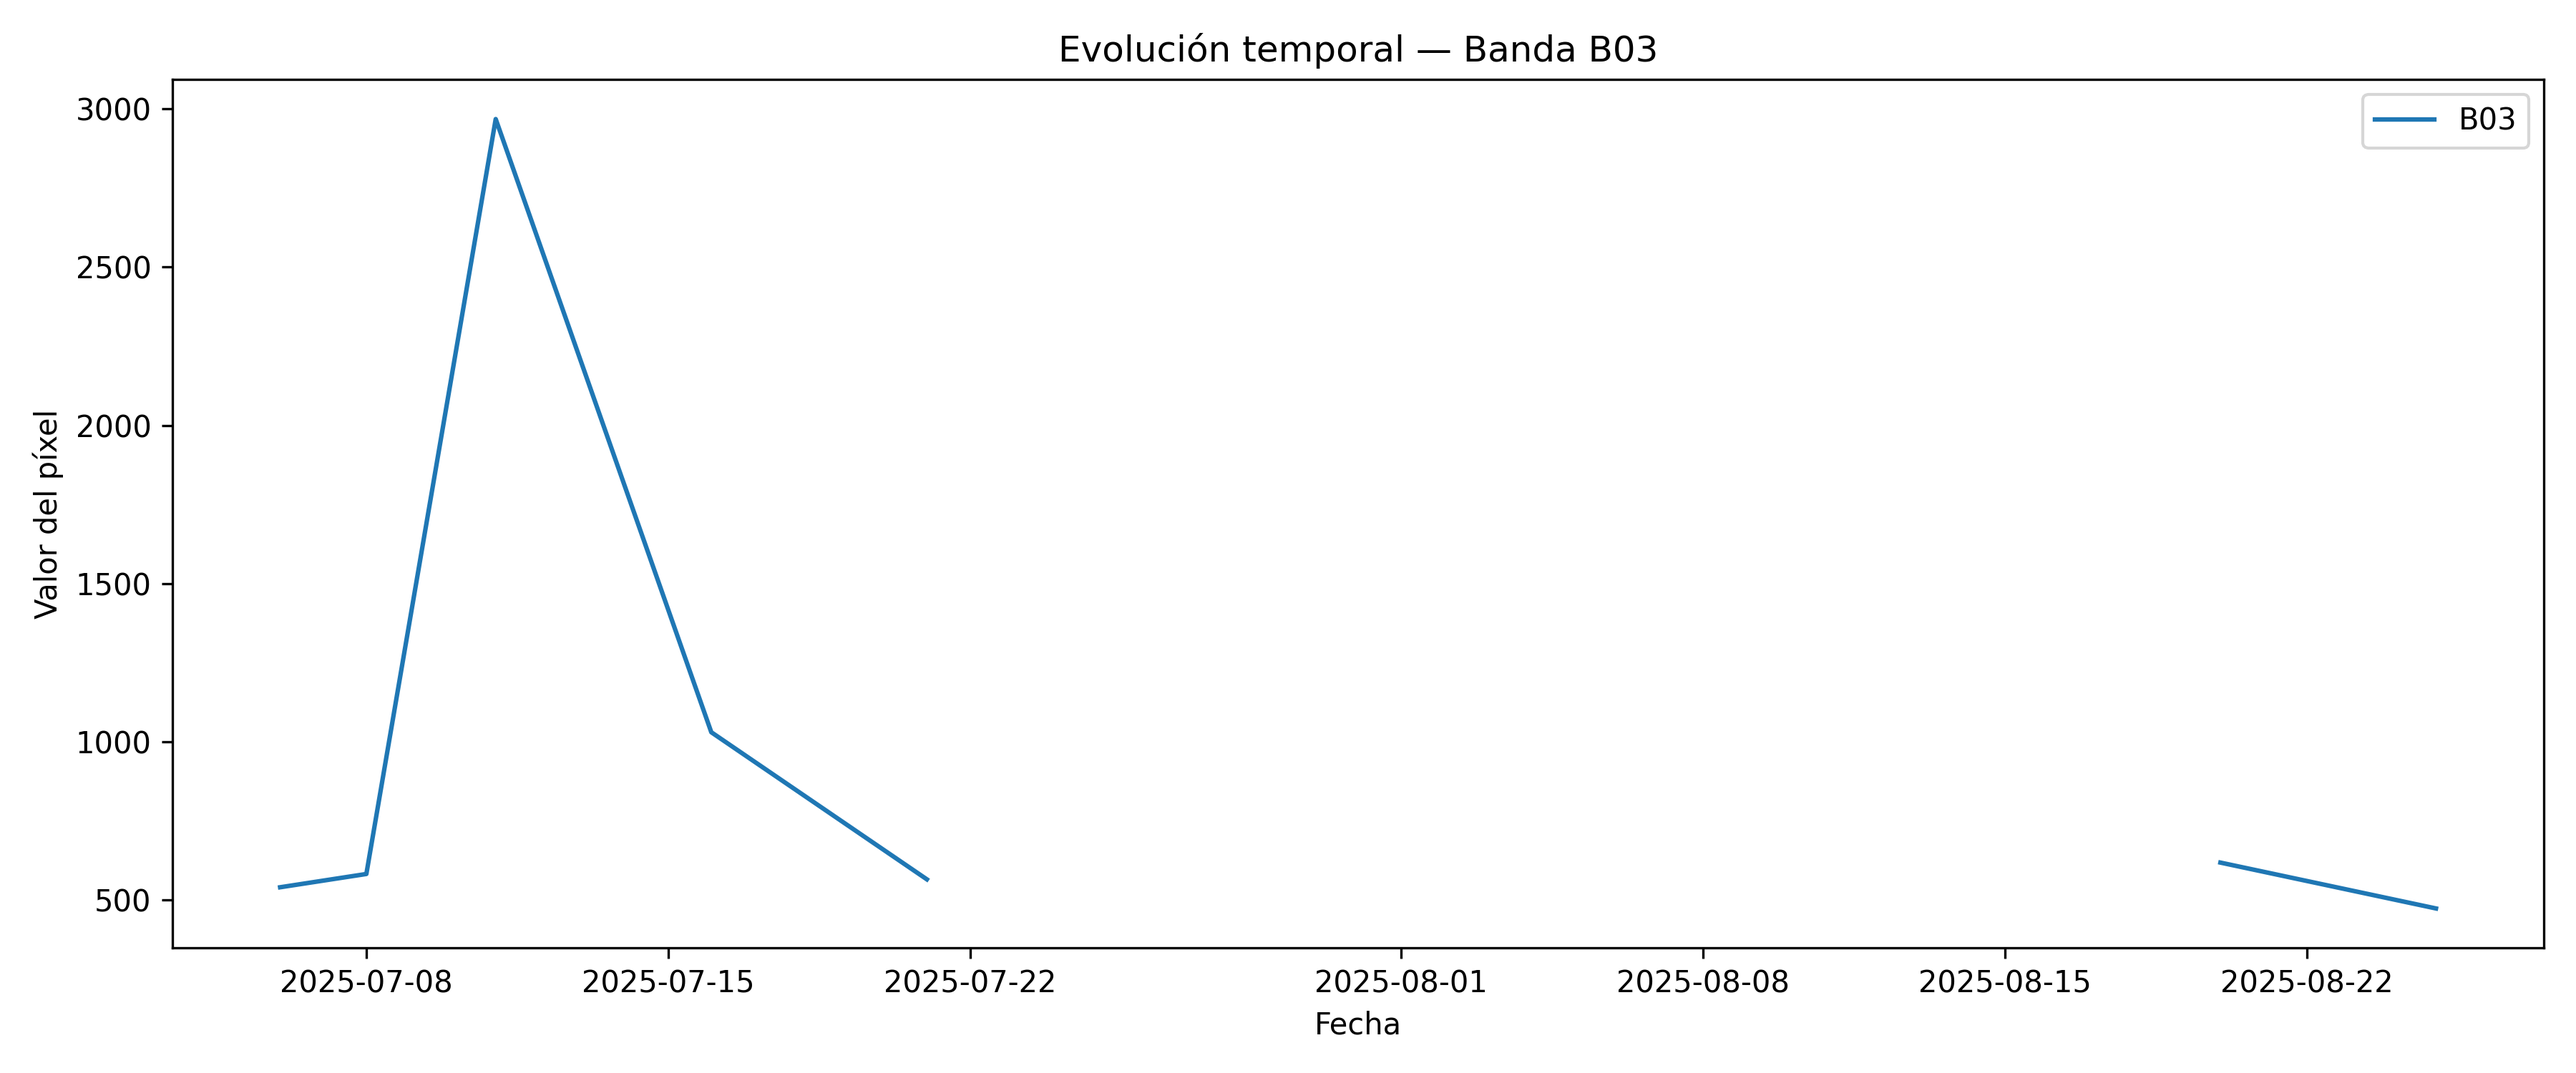
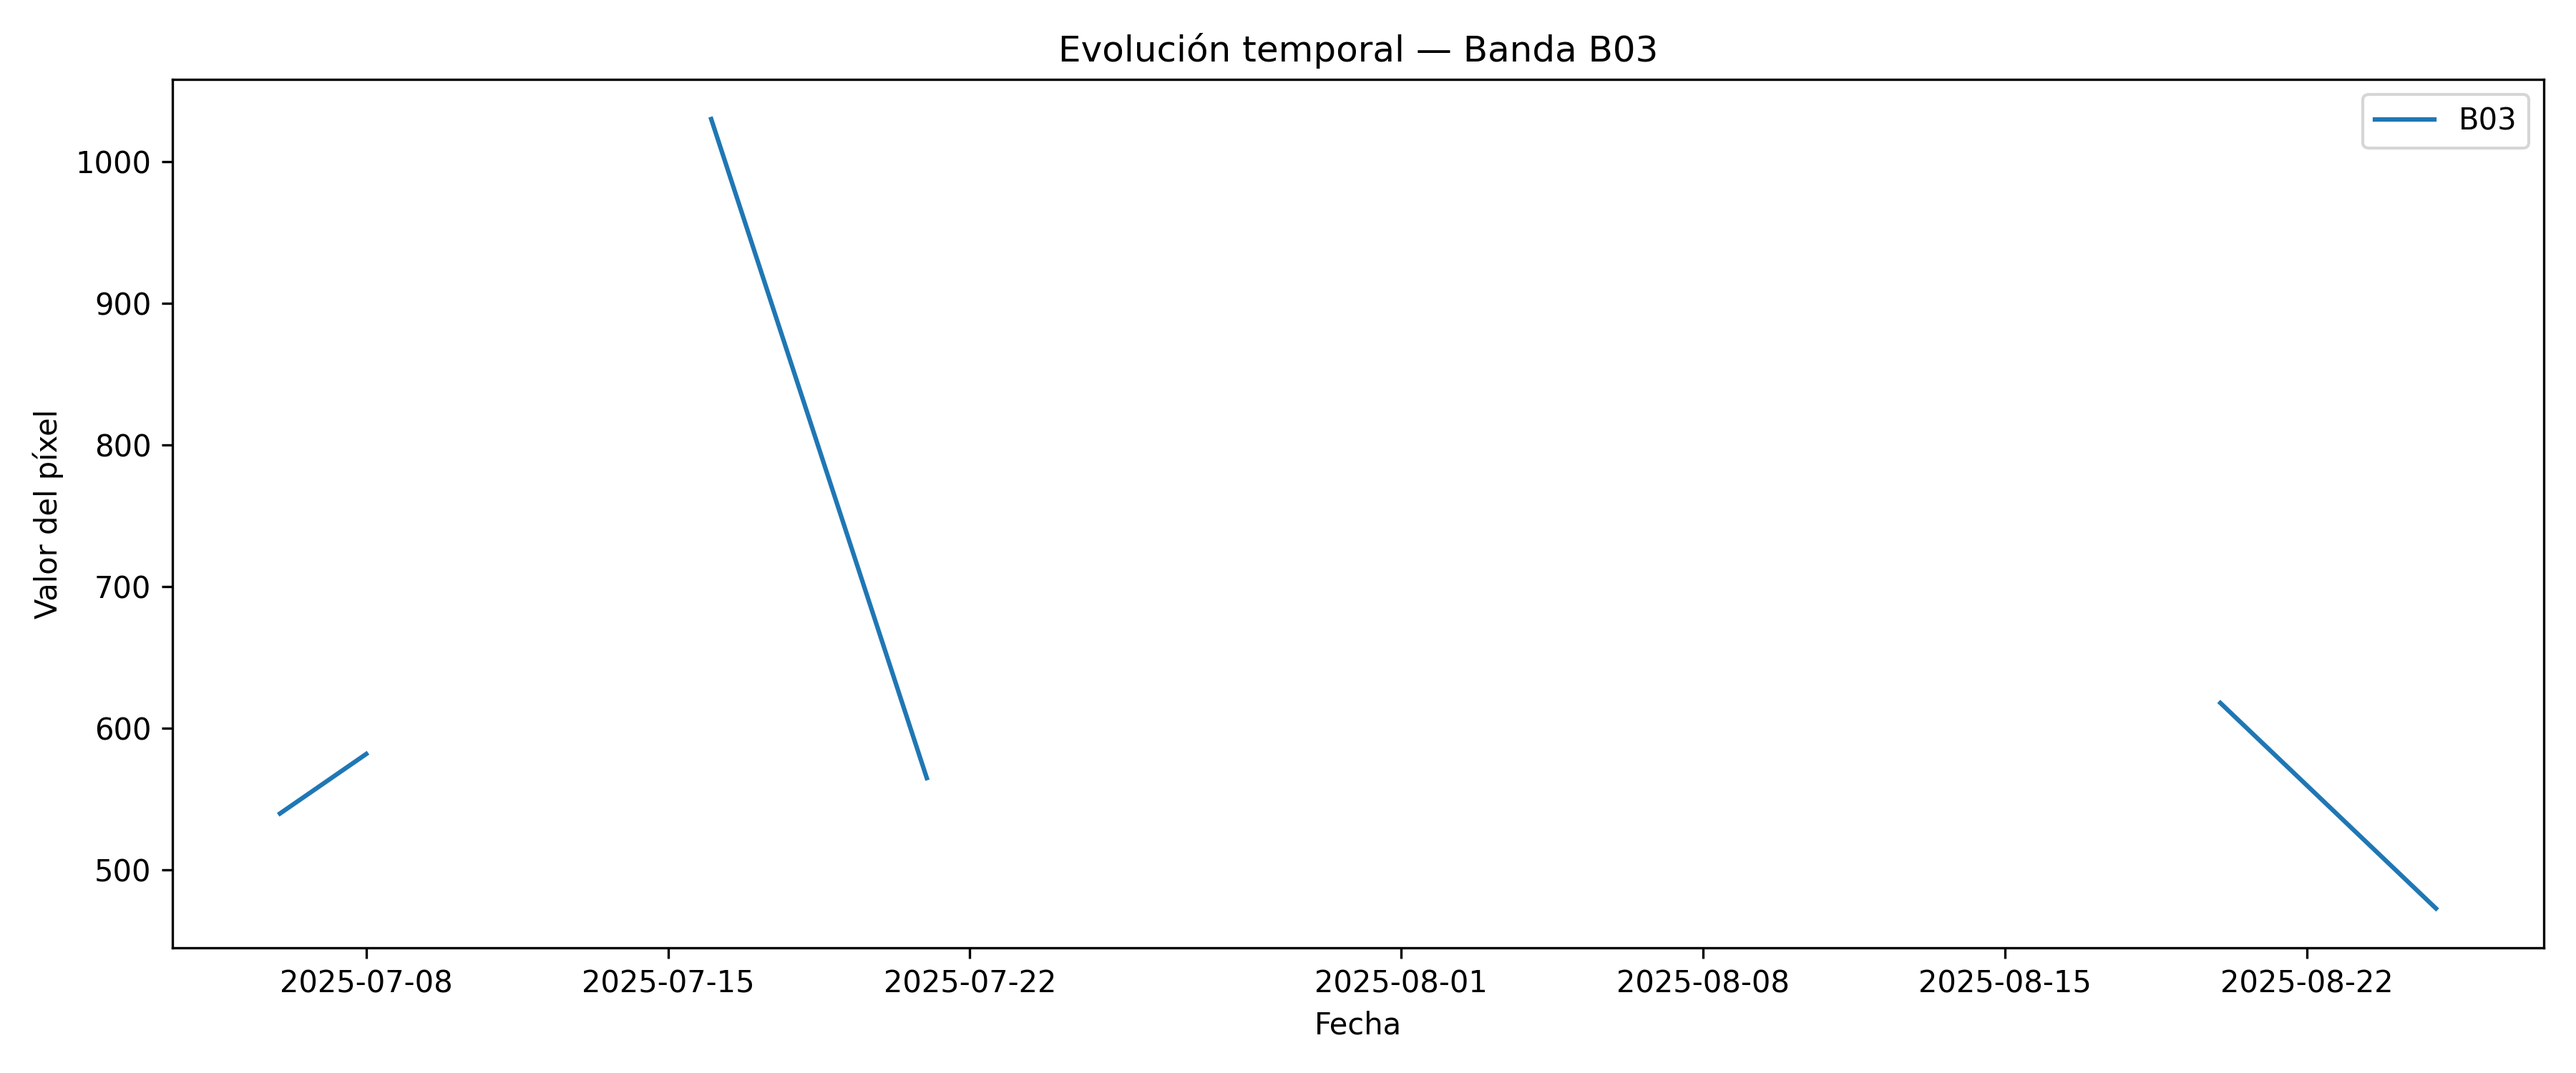
Datos filtrados usando SCL y filtro manual

diff --git a/filtrar_nubes.py b/filtrar_nubes.py
@@ -21,10 +21,28 @@ df_merged = df_bandas.merge(
 #Filtrar los valores cuyo SCL sea 8 o 9 (prob. de nubes)
 nube = [8, 9]
 
-df_merged["valor_filtrado"] = np.where(
-    df_merged["SCL"].isin(nube),
-    np.nan,
-    df_merged["valor_pixel"]
+umbrales = {
+    "B01": 2000,
+    "B02": 2000,
+    "B03": 2000,
+    "B04": 2000,
+    "B05": 2000,
+    "B06": 2500,
+    "B07": 2500,
+    "B08": 2500,
+    "B09": 2500,
+    "B11": 3500,
+    "B12": 3000
+}
+
+df_merged["valor_filtrado"] = df_merged.apply(
+    lambda r: np.nan
+    if (
+        r["SCL"] in nube or
+        (r["nombre_banda"] in umbrales and r["valor_pixel"] > umbrales[r["nombre_banda"]])
+    )
+    else r["valor_pixel"],
+    axis=1
 )
 
 #Guardar en csv.
